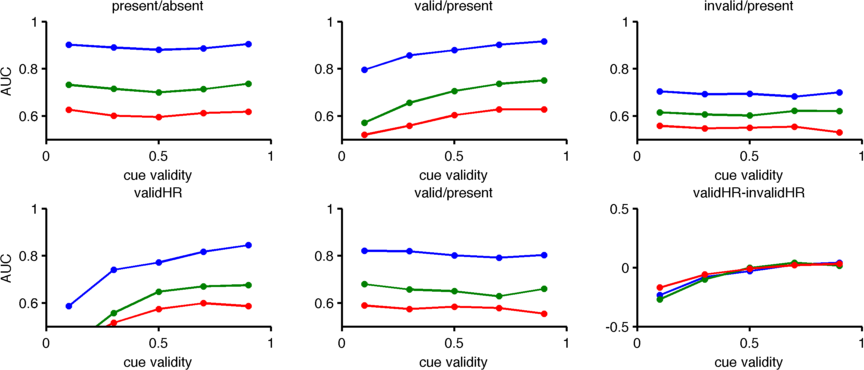
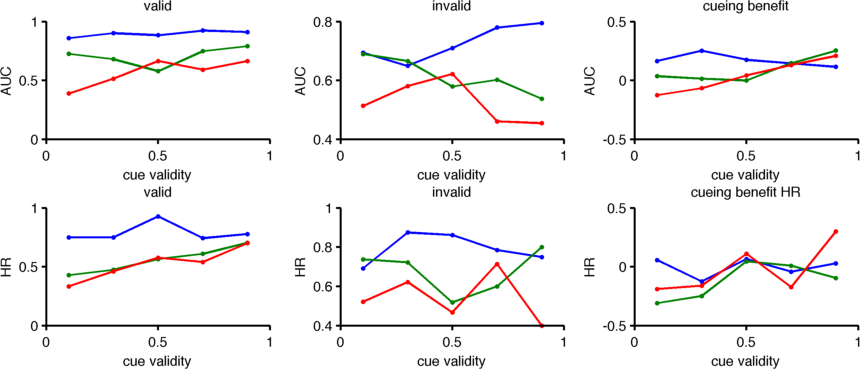
plotting improvements

diff --git a/code/SCRIPTcuedYesNo.m b/code/SCRIPTcuedYesNo.m
@@ -27,8 +27,8 @@ T1=clock;
 %% Define parameters
 % Select parameters to use based on if we are quick testing (faster
 % computation times) or final runs (will take a while to compute).
-N_testing_trials = 100;
-T_publication_trials = 2000;
+N_testing_trials		= 100;
+T_publication_trials	= 2000;
 switch run_type
 	case{'testing'}
 		% Experiment 1
@@ -86,9 +86,9 @@ end
 
 %% RUN EXPERIMENTS
 
-EXPT1( expt(1) )
-EXPT2( expt(2) )
-EXPT3( expt(3) )
+expt(1).results = EXPT1( expt(1) );
+expt(2).results = EXPT2( expt(2) );
+expt(3).results = EXPT3( expt(3) );
 
 
 
@@ -131,7 +131,7 @@ end
 
 
 
-function EXPT1(expt)
+function results = EXPT1(expt)
 %% EXPERIMENT 1
 
 results = doParameterSweep(expt);
@@ -159,13 +159,13 @@ end
 
 
 
-function EXPT2(expt)
+function results = EXPT2(expt)
 %% EXPERIMENT 2
 
 results = doParameterSweep(expt);
 
 figure(2), clf
-plotExperimentResults(expt, results, 'variance_list', '\sigma^2')
+plotExperimentResults(expt, results, 'variance_list', '\sigma ^2')
 
 figure(4), subplot(1,3,2)
 hold on, %set(gca, 'ColorOrder', ColorSet);
@@ -194,7 +194,7 @@ end
 
 
 
-function EXPT3(expt)
+function results = EXPT3(expt)
 %% EXPERIMENT 3
 
 results = doParameterSweep(expt);
@@ -272,23 +272,25 @@ x = expt.(xVariable); % <-- use of dynamic field name
 
 % plot output for AUC ~~~~~~~~~~~~~~~~~~~
 subplot(2,3,1)
-plotStuff(x, results.AUC, xlabeltext, 'AUC', 'present/absent')
+plotStuff(x, results.AUC_valid_present, xlabeltext, 'AUC', 'valid')
 
 subplot(2,3,2)
-plotStuff(x, results.AUC_valid_present, xlabeltext, '', 'valid/present')
+plotStuff(x, results.AUC_invalid_present, xlabeltext, 'AUC', 'invalid')
 
 subplot(2,3,3)
-plotStuff(x, results.AUC_invalid_present, xlabeltext, '', 'invalid/present')
+plotStuff(x, results.AUC_valid_present - results.AUC_invalid_present,...
+	xlabeltext, 'AUC', 'cueing benefit')
 
 % plot output for hit rates ~~~~~~~~~~~~~~~~~~~
 subplot(2,3,4)
-plotStuff(x, results.validHR, xlabeltext, '', 'validHR')
+plotStuff(x, results.validHR, xlabeltext, 'HR', 'valid')
 
 subplot(2,3,5)
-plotStuff(x, results.invalidHR, xlabeltext, '', 'valid/present')
+plotStuff(x, results.invalidHR, xlabeltext, 'HR', 'invalid')
 
 subplot(2,3,6)
-plotStuff(x, results.validHR-results.invalidHR, xlabeltext, '', 'cueing benefit HR')
+plotStuff(x, results.validHR-results.invalidHR,...
+	xlabeltext, 'HR', 'cueing benefit HR')
 
 drawnow
 
